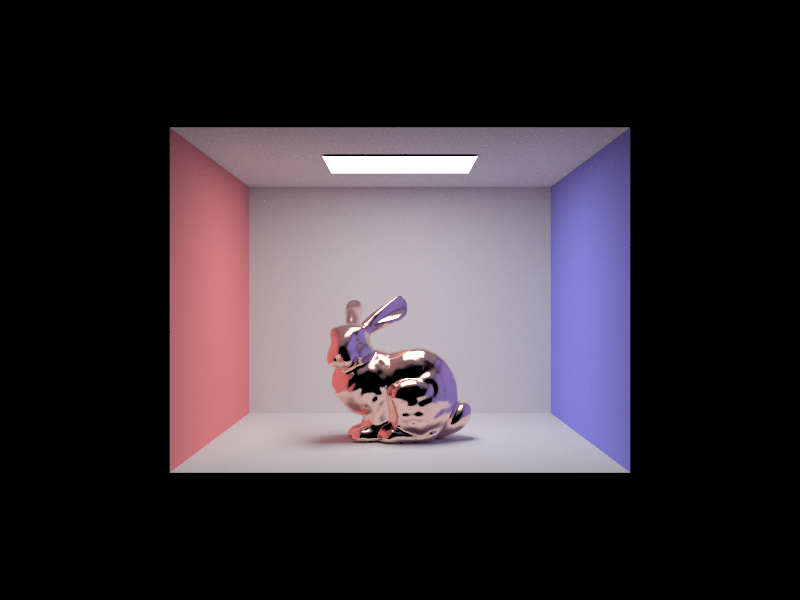
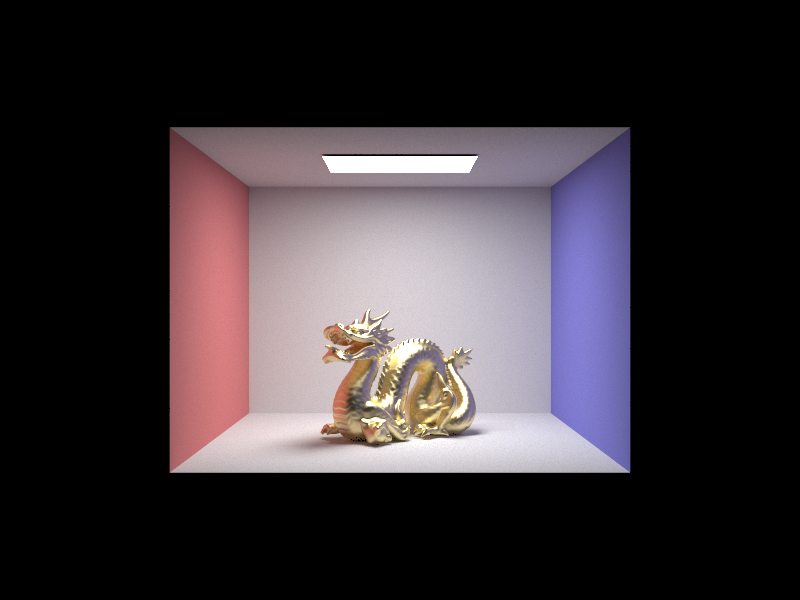
Finish adaptive sampling part in path tracer

Changed region(s): [[0.25, 0.42, 0.75, 0.78]]

diff --git a/content/en/posts/projects/path-tracer/index.md b/content/en/posts/projects/path-tracer/index.md
@@ -383,3 +383,61 @@ $$I = 1.96 \cdot \frac{\sigma}{\sqrt{n}} \leq \text{maxTolerance} \cdot \mu$$
 Where \(1.96\) is the z-score for a 95% confidence interval. When this condition is met, the pixel has likely converged, and we can safely terminate the sampling loop early.
 
 Implementation Detail: To keep the performance overhead low, I only check for convergence every `samplesPerBatch` (32 by default) iterations. This prevents the square root and variance calculations from bottlenecking the core ray-tracing loop.
+
+### 5.2 Performance Analysis
+
+By implementing adaptive sampling, we can significantly reduce the rendering time for images with large areas of uniform color (like the walls of the Cornell Box), while still maintaining high quality in complex areas (like the bunny's surface). 
+
+For `CBbunny.dae` with `max_ray_depth = 32`, `samplesPerPixel = 1024`, and `light_ray_per_sample = 4`, adaptive sampling reduces the rendering time from 248.2378s to 110.7405s. For profiling results, you can look at this table:
+
+| Region Type | Before Optimization | After Optimization | Speedup Factor |
+| :--- | :--- | :--- | :--- |
+| **Simple Areas (e.g., Walls)** | 20 ms / tile | 3 ms / tile | ~6.67x |
+| **Complex Areas (e.g., Shadows)** | 1,000 ms / tile | ~630 ms / tile | ~1.59x |
+| **Total Render Time (CBbunny)** | 248.2 s | 110.7 s | 2.24x |
+
+### 5.3 Visual Comparison
+
+The heatmaps below illustrate the sampling density. In the "After" map (Fig 2), blue regions represent pixels that converged early, while red regions indicate areas where the full 1024 samples were necessary.
+
+<div class="flex flex-row gap-4">
+    <div class="flex-1">
+        {{< figure src="CBbunny_1024_4_32_rate.png" caption="**Fig 1:** Heat Map before adaptive sampling" alt="Result 1" >}}
+    </div>
+    <div class="flex-1">
+        {{< figure src="CBbunny_1024_4_32_a_rate.png" caption="**Fig 2:** Heat Map after adaptive sampling" alt="Result 2" >}}
+    </div>
+</div>
+
+### 5.4 More BSDFs
+
+To push the renderer further, I extended the system to support a variety of physically-based materials, including Microfacet BSDFs (for metals like copper), Glass, and Refraction. These materials highlight the robustness of the global illumination and adaptive sampling systems.
+
+Here is a gallery of the rendered results with their heat maps:
+
+<div class="more-bsdfs">
+<div class="flex flex-row gap-4">
+    <div class="flex-1">
+        {{< figure src="dragon_cu.png" caption="**Fig 1:** Dragon with copper material" alt="Result 1" >}}
+    </div>
+    <div class="flex-1">
+        {{< figure src="dragon_cu_rate.png" caption="**Fig 2:** Heat Map of dragon with copper material" alt="Result 2" >}}
+    </div>
+</div>
+<div class="flex flex-row gap-4">
+    <div class="flex-1">
+        {{< figure src="bunny_cu.png" caption="**Fig 3:** Bunny with copper material" alt="Result 1" >}}
+    </div>
+    <div class="flex-1">
+        {{< figure src="bunny_cu_rate.png" caption="**Fig 4:** Heat Map of bunny with copper material" alt="Result 2" >}}
+    </div>
+</div>
+<div class="flex flex-row gap-4">
+    <div class="flex-1">
+        {{< figure src="gems_1024_4_a.png" caption="**Fig 5:** Gems with glass material" alt="Result 1" >}}
+    </div>
+    <div class="flex-1">
+        {{< figure src="gems_1024_4_rate.png" caption="**Fig 6:** Heat Map of gems with glass material" alt="Result 2" >}}
+    </div>
+</div>
+</div>
